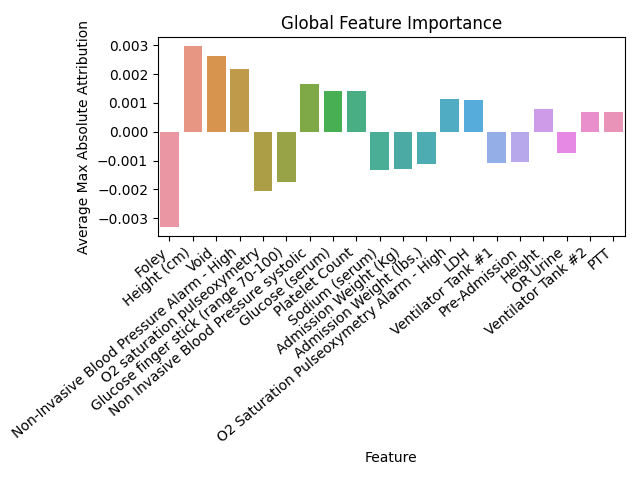
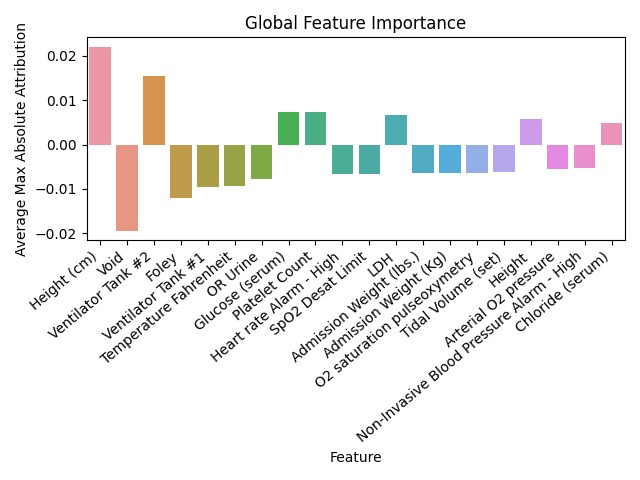
Upgrade to using IntegratedGradients

diff --git a/src/tabsep/modeling/tstCaptum.py b/src/tabsep/modeling/tstCaptum.py
@@ -66,7 +66,7 @@ if __name__ == "__main__":
     )
 
     model.eval()
-    model.zero_grad()
+    # model.zero_grad()
 
     X_test = torch.load(f"cache/models/{model_id}/X_test.pt")
     y_test = torch.load(f"cache/models/{model_id}/y_test.pt")
@@ -77,7 +77,7 @@ if __name__ == "__main__":
 
     dl = torch.utils.data.DataLoader(
         TensorBasedDataset(X_test, y_test),
-        batch_size=256,
+        batch_size=8,
         num_workers=CORES_AVAILABLE,
         pin_memory=True,
         drop_last=False,
@@ -97,7 +97,7 @@ if __name__ == "__main__":
         # ig = IntegratedGradients(model.forward)
         # attributions = ig.attribute(X_test, additional_forward_args=pad_masks)
 
-        ig = InputXGradient(model)  # TODO: are there more modern methods?
+        ig = IntegratedGradients(model)  # TODO: are there more modern methods?
         attributions = ig.attribute(xbatch, additional_forward_args=pad_masks, target=0)
         attributions_list.append(attributions.cpu())
         pad_mask_list.append(pad_masks.cpu())
